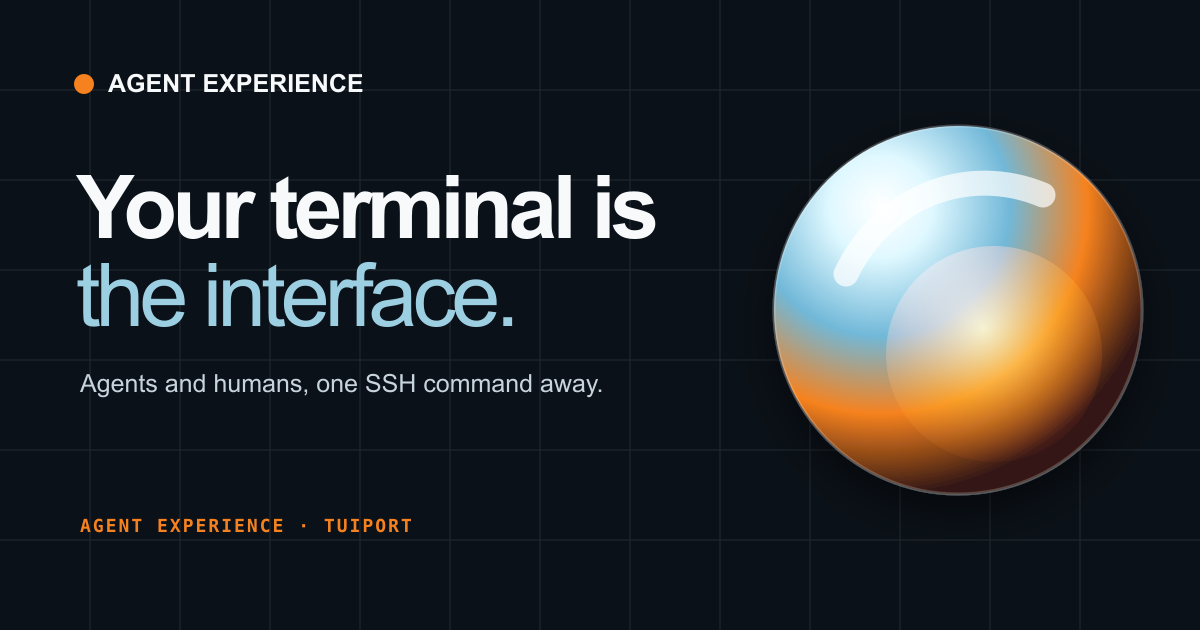
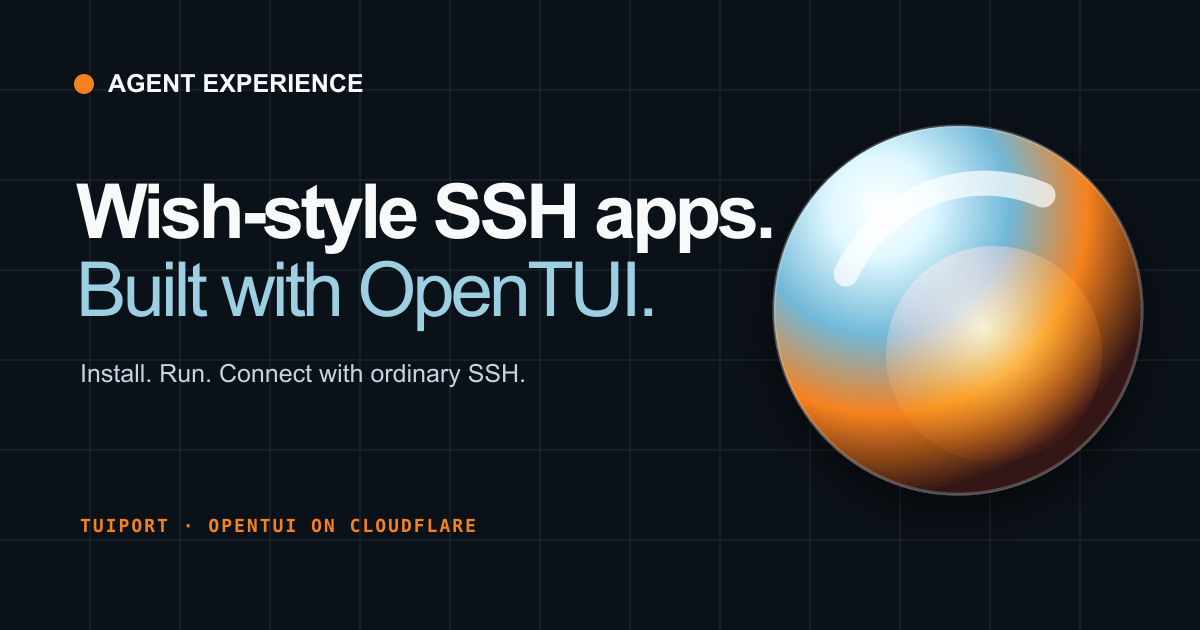
Align discovery assets with the OpenTUI SSH north star

Changed region(s): [[0.0617, 0.2714, 0.6475, 0.5429], [0.0617, 0.573, 0.4933, 0.6333], [0.0617, 0.8143, 0.4008, 0.8444]]

diff --git a/scripts/generate-assets.ts b/scripts/generate-assets.ts
@@ -43,16 +43,16 @@ const socialSvg = `<svg xmlns="http://www.w3.org/2000/svg" width="1200" height="
   <circle cx="994" cy="354" r="108" fill="url(#core)" style="mix-blend-mode:screen"/>
   <path d="M846 274c38-79 123-110 197-79" fill="none" stroke="#fff" stroke-opacity=".7" stroke-width="25" stroke-linecap="round"/>
   <circle cx="84" cy="84" r="10" fill="#f6821f"/><text x="108" y="92" fill="#f7f9fb" font-family="Arial,sans-serif" font-size="25" font-weight="700">AGENT EXPERIENCE</text>
-  <text x="76" y="238" fill="#f7f9fb" font-family="Arial,sans-serif" font-size="88" font-weight="750" letter-spacing="-5">Your terminal is</text>
-  <text x="76" y="326" fill="#9ccfe2" font-family="Arial,sans-serif" font-size="88" font-weight="500" letter-spacing="-5">the interface.</text>
-  <text x="80" y="392" fill="#c8d4dd" font-family="Arial,sans-serif" font-size="25">Agents and humans, one SSH command away.</text>
-  <text x="80" y="532" fill="#f6821f" font-family="monospace" font-size="18" font-weight="600" letter-spacing="2">AGENT EXPERIENCE · TUIPORT</text>
+  <text x="76" y="238" fill="#f7f9fb" font-family="Arial,sans-serif" font-size="76" font-weight="750" letter-spacing="-4">Wish-style SSH apps.</text>
+  <text x="76" y="316" fill="#9ccfe2" font-family="Arial,sans-serif" font-size="76" font-weight="500" letter-spacing="-4">Built with OpenTUI.</text>
+  <text x="80" y="382" fill="#c8d4dd" font-family="Arial,sans-serif" font-size="25">Install. Run. Connect with ordinary SSH.</text>
+  <text x="80" y="532" fill="#f6821f" font-family="monospace" font-size="18" font-weight="600" letter-spacing="2">TUIPORT · OPENTUI ON CLOUDFLARE</text>
 </svg>`;
 
 const mobileScreenshot = `<svg xmlns="http://www.w3.org/2000/svg" width="750" height="1334" viewBox="0 0 750 1334">${orb}
   <rect width="750" height="1334" fill="#0b1118"/><circle cx="590" cy="255" r="220" fill="url(#orb)" opacity=".38"/>
   <text x="50" y="78" fill="#f7f9fb" font-family="Arial,sans-serif" font-size="26" font-weight="700">AGENT EXPERIENCE</text>
-  <text x="50" y="230" fill="#f7f9fb" font-family="Arial,sans-serif" font-size="72" font-weight="750">Your terminal is</text><text x="50" y="304" fill="#9ccfe2" font-family="Arial,sans-serif" font-size="72">the interface.</text>
+  <text x="50" y="230" fill="#f7f9fb" font-family="Arial,sans-serif" font-size="60" font-weight="750">Wish-style SSH apps.</text><text x="50" y="298" fill="#9ccfe2" font-family="Arial,sans-serif" font-size="60">Built with OpenTUI.</text>
   <rect x="38" y="412" width="674" height="570" rx="14" fill="#080d13" stroke="#4f6273"/>
   <text x="72" y="472" fill="#63d5a2" font-family="monospace" font-size="18">● LIVE SESSION</text>
   <text x="72" y="560" fill="#f6821f" font-family="monospace" font-size="24">$ ssh your-hostname</text>

diff --git a/src/worker.ts b/src/worker.ts
@@ -27,9 +27,9 @@ const repository = 'https://github.com/acoyfellow/tuiport';
 const pages = {
   '/': {
     section: 'home',
-    title: 'Tuiport — A Shared Terminal Interface for Agents and Humans',
+    title: 'Tuiport — OpenTUI SSH Apps on Cloudflare',
     description:
-      'A shared terminal interface for agents and humans, built with OpenTUI and served over real SSH from a Cloudflare Container.',
+      'Build Wish-style SSH applications with OpenTUI, run the same container locally or on Cloudflare, and connect from any terminal with ordinary SSH.',
     eyebrow: 'OpenTUI · SSH · Cloudflare Containers',
   },
   '/tutorial': {
